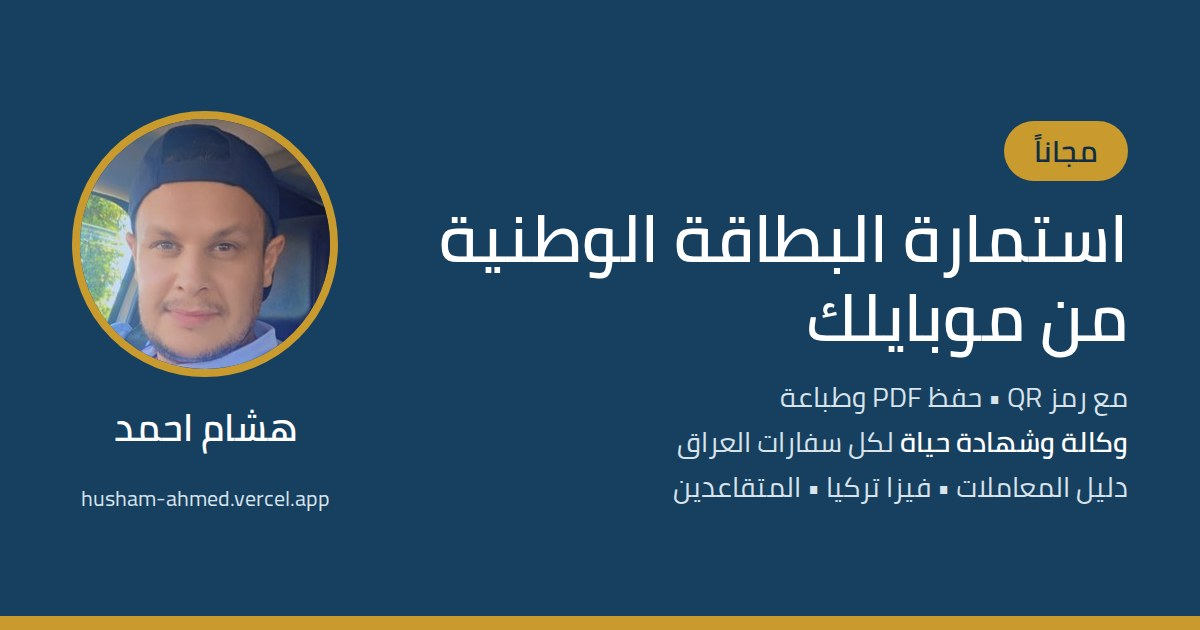
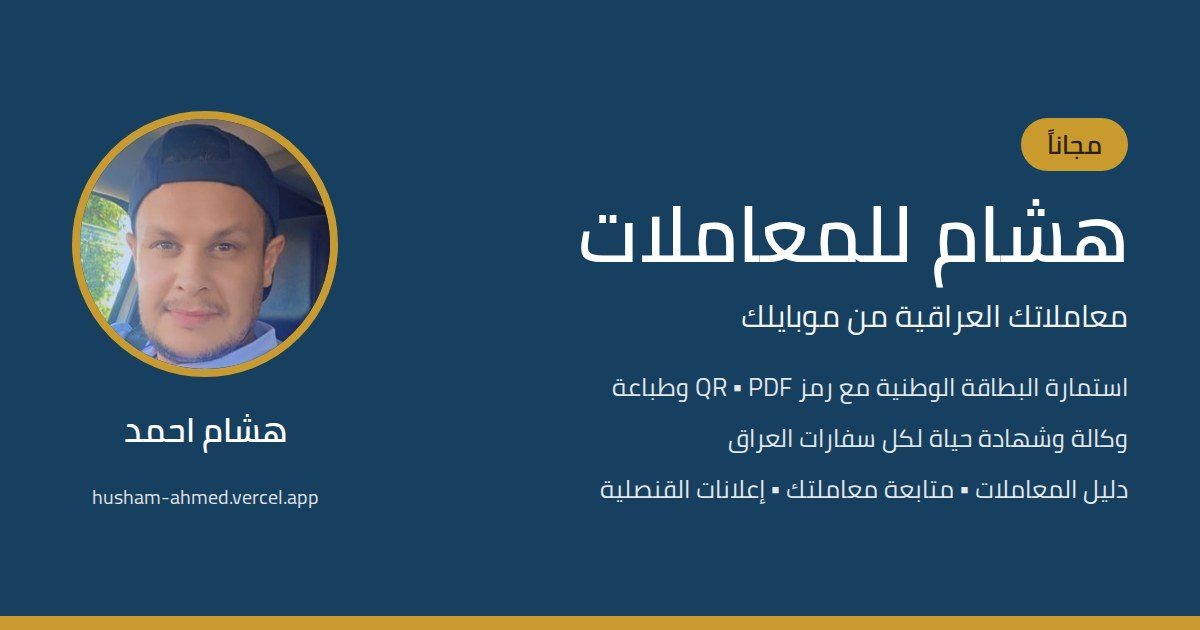
Rename app to هشام للمعاملات
Claude-Session: https://claude.ai/code/session_01QwpJHHxQJLjtmraekUta2C

diff --git a/src/texts.js b/src/texts.js
@@ -364,7 +364,7 @@ export const UI = {
     cSubmit: 'اطلب تقديمها لي',
     saveContact: 'احفظ رقمي',
     shareApp: 'أرسل البرنامج لصديق',
-    shareText: 'برنامج مجاني لتعبئة استمارة البطاقة الوطنية من الموبايل، مع رمز QR وحفظ PDF:',
+    shareText: 'برنامج «هشام للمعاملات» المجاني: استمارة البطاقة الوطنية مع رمز QR، والوكالة وشهادة الحياة، من الموبايل:',
     contactNote: 'حجز المعاملات العراقية، محامون، تصاميم',
     reqTitle: 'طلب حجز أو معاملة',
     reqNote: 'اختر المعاملة واكتب معلوماتك، فتصلني رسالة واتساب مرتبة وأرد عليك بأقرب وقت.',
@@ -400,7 +400,7 @@ export const UI = {
     wipe: 'حذف كل البيانات من هذا الجهاز',
     confirmWipe: 'سيتم حذف كل الاستمارات والمعلومات المحفوظة على هذا الجهاز نهائياً. هل أنت متأكد؟',
     wiped: 'تم حذف كل البيانات',
-    appName: 'استمارة البطاقة الوطنية',
+    appName: 'هشام للمعاملات',
     by: 'إعداد',
     freeBy: 'برنامج مجاني من إعداد',
     pickLang: 'اختر لغة البرنامج',
@@ -446,7 +446,7 @@ export const UI = {
     whatsapp: 'راسلني على واتساب',
     facebook: 'مجموعة فيسبوك',
     tiktok: 'حساب تيك توك',
-    waHello: 'مرحباً هشام، وصلت لك من برنامج استمارة البطاقة الوطنية',
+    waHello: 'مرحباً هشام، وصلت لك من برنامج هشام للمعاملات',
     promos: [
       { key: 'booking', title: 'حجز جميع المعاملات العراقية', text: 'بطاقة وطنية، جواز، وكالة، شهادة حياة وغيرها • لا نستلم أجور مقدماً', msg: 'مرحباً هشام، أحتاج حجز موعد لمعاملة عراقية' },
       { key: 'lawyer', title: 'تحتاج محامي؟', text: 'محامون في جميع أنحاء العراق لكل مغترب • لا نستلم أجور مقدماً', msg: 'مرحباً هشام، أحتاج محامي لمتابعة قضية أو معاملة في العراق' },
@@ -665,7 +665,7 @@ export const UI = {
     cSubmit: 'پێشکەشکردنی بۆم بکە',
     saveContact: 'ژمارەکەم پاشەکەوت بکە',
     shareApp: 'بۆ هاوڕێیەک بنێرە',
-    shareText: 'بەرنامەیەکی خۆڕایی بۆ پڕکردنەوەی فۆرمی کارتی نیشتمانی لە مۆبایلەوە، لەگەڵ QR و PDF:',
+    shareText: 'بەرنامەی خۆڕایی «هیشام بۆ مامەڵەکان»: فۆرمی کارتی نیشتمانی لەگەڵ QR، بریکارنامە و بەڕژیانی، لە مۆبایلەوە:',
     contactNote: 'ژوانی مامەڵە عێراقییەکان، پارێزەر، دیزاین',
     reqTitle: 'داواکاری ژوان یان مامەڵە',
     reqNote: 'مامەڵەکە هەڵبژێرە و زانیارییەکانت بنووسە، نامەیەکی ڕێکخراوم لە واتسئاپ پێدەگات و زوو وەڵامت دەدەمەوە.',
@@ -701,7 +701,7 @@ export const UI = {
     wipe: 'سڕینەوەی هەموو زانیارییەکان لەم ئامێرە',
     confirmWipe: 'هەموو فۆرم و زانیارییە هەڵگیراوەکان لەم ئامێرە بە یەکجاری دەسڕدرێنەوە. دڵنیایت؟',
     wiped: 'هەموو زانیارییەکان سڕانەوە',
-    appName: 'فۆرمی کارتی نیشتمانی',
+    appName: 'هیشام بۆ مامەڵەکان',
     by: 'ئامادەکردنی',
     freeBy: 'بەرنامەیەکی خۆڕایی، ئامادەکردنی',
     pickLang: 'زمانی بەرنامە هەڵبژێرە',
@@ -747,7 +747,7 @@ export const UI = {
     whatsapp: 'لە واتسئاپ نامەم بۆ بنێرە',
     facebook: 'گرووپی فەیسبووک',
     tiktok: 'هەژماری تیکتۆک',
-    waHello: 'سڵاو هیشام، لە بەرنامەی فۆرمی کارتی نیشتمانییەوە هاتووم',
+    waHello: 'سڵاو هیشام، لە بەرنامەی هیشام بۆ مامەڵەکانەوە هاتووم',
     promos: [
       { key: 'booking', title: 'گرتنی ژوان بۆ هەموو مامەڵە عێراقییەکان', text: 'کارتی نیشتمانی، پاسپۆرت، وەکالەت و زیاتر • هیچ کرێیەک پێشوەختە وەرناگرین', msg: 'سڵاو هیشام، پێویستم بە گرتنی ژوانە بۆ مامەڵەیەکی عێراقی' },
       { key: 'lawyer', title: 'پێویستت بە پارێزەرە؟', text: 'پارێزەر لە هەموو ناوچەکانی عێراق • هیچ کرێیەک پێشوەختە وەرناگرین', msg: 'سڵاو هیشام، پێویستم بە پارێزەرە' },

diff --git a/index.html b/index.html
@@ -3,19 +3,19 @@
 <head>
   <meta charset="UTF-8">
   <meta name="viewport" content="width=device-width, initial-scale=1, viewport-fit=cover">
-  <title>استمارة البطاقة الوطنية</title>
-  <meta name="description" content="تعبئة استمارة البطاقة الوطنية العراقية من الموبايل مع رمز QR، وحفظها صورة أو PDF أو طباعتها. برنامج مجاني من إعداد هشام احمد.">
+  <title>هشام للمعاملات</title>
+  <meta name="description" content="هشام للمعاملات: استمارة البطاقة الوطنية العراقية مع رمز QR، والوكالة وشهادة الحياة، ودليل المعاملات من موبايلك. برنامج مجاني من إعداد هشام احمد.">
   <meta name="theme-color" content="#173F5F">
   <meta property="og:type" content="website">
   <meta property="og:site_name" content="هشام احمد">
   <meta property="og:locale" content="ar_IQ">
   <meta property="og:url" content="https://husham-ahmed.vercel.app/">
-  <meta property="og:title" content="استمارة البطاقة الوطنية من موبايلك – مجاناً">
+  <meta property="og:title" content="هشام للمعاملات – معاملاتك العراقية من موبايلك مجاناً">
   <meta property="og:description" content="استمارة البطاقة الوطنية مع رمز QR، والوكالة وشهادة الحياة لكل سفارات العراق، ودليل المعاملات خطوة بخطوة. برنامج مجاني من إعداد هشام احمد.">
   <meta property="og:image" content="https://husham-ahmed.vercel.app/img/og.jpg">
   <meta property="og:image:width" content="1200">
   <meta property="og:image:height" content="630">
-  <meta property="og:image:alt" content="استمارة البطاقة الوطنية من موبايلك – هشام احمد">
+  <meta property="og:image:alt" content="هشام للمعاملات – هشام احمد">
   <meta name="twitter:card" content="summary_large_image">
   <link rel="canonical" href="https://husham-ahmed.vercel.app/">
   <link rel="manifest" href="/manifest.webmanifest">
@@ -23,7 +23,7 @@
   <link rel="apple-touch-icon" href="/icons/apple-touch-icon.png">
   <meta name="apple-mobile-web-app-capable" content="yes">
   <meta name="mobile-web-app-capable" content="yes">
-  <meta name="apple-mobile-web-app-title" content="البطاقة الوطنية">
+  <meta name="apple-mobile-web-app-title" content="هشام للمعاملات">
   <link rel="preload" href="/fonts/cairo-regular.woff2" as="font" type="font/woff2" crossorigin>
   <link rel="preload" href="/fonts/cairo-semibold.woff2" as="font" type="font/woff2" crossorigin>
   <link rel="stylesheet" href="/app.css">

diff --git a/privacy.html b/privacy.html
@@ -3,8 +3,8 @@
 <head>
   <meta charset="UTF-8">
   <meta name="viewport" content="width=device-width, initial-scale=1">
-  <title>سياسة الخصوصية – استمارة البطاقة الوطنية</title>
-  <meta name="description" content="سياسة الخصوصية لتطبيق استمارة البطاقة الوطنية من إعداد هشام احمد.">
+  <title>سياسة الخصوصية – هشام للمعاملات</title>
+  <meta name="description" content="سياسة الخصوصية لتطبيق «هشام للمعاملات» من إعداد هشام احمد.">
   <meta name="theme-color" content="#173F5F">
   <link rel="canonical" href="https://husham-ahmed.vercel.app/privacy.html">
   <link rel="icon" href="/icons/icon-192.png" type="image/png">
@@ -15,7 +15,7 @@
     <p class="back"><a href="/">← الرجوع للتطبيق</a></p>
 
     <h1>سياسة الخصوصية</h1>
-    <p class="meta">تطبيق «استمارة البطاقة الوطنية» · آخر تحديث: 3 تشرين الأول 2026</p>
+    <p class="meta">تطبيق «هشام للمعاملات» · آخر تحديث: 12 تشرين الأول 2026</p>
 
     <div class="notice">
       هذا التطبيق مبادرة شخصية مجانية من هشام احمد، وهو <b>غير تابع للحكومة العراقية</b> ولا لأي سفارة أو قنصلية أو دائرة رسمية.
@@ -60,7 +60,7 @@
 
     <section lang="en" dir="ltr">
       <h1>Privacy Policy</h1>
-      <p class="meta">"National ID Card Form" app · Last updated: 3 October 2026</p>
+      <p class="meta">"Husham for Transactions" (هشام للمعاملات) app · Last updated: 12 October 2026</p>
 
       <div class="notice">
         This app is a free personal project by Husham Ahmed. It is <b>not affiliated with the Government of Iraq</b> or with any Iraqi embassy, consulate or official office.

diff --git a/src/main.js b/src/main.js
@@ -257,7 +257,7 @@ function openRequest(preselect, prefillNote) {
       `• عدد الأشخاص: ${people}`,
       `• أفضل وقت للتواصل: ${UI.Ara.reqTimes[when]}`,
       notes.value.trim() ? `• ملاحظات: ${notes.value.trim()}` : null,
-      '(مرسل من برنامج استمارة البطاقة الوطنية)',
+      '(مرسل من برنامج هشام للمعاملات)',
     ].filter(Boolean);
     try { localStorage.setItem(REQ_KEY, JSON.stringify({ name: name.value.trim(), city: city.value.trim() })); } catch (e) { /* ignore */ }
     count('booking_request', { services: picked.map((sv) => sv.id).join(','), people });

diff --git a/sw.js b/sw.js
@@ -1,5 +1,5 @@
 // Offline support. Change VERSION whenever any file changes.
-const VERSION = 'bitaqa-73';
+const VERSION = 'bitaqa-74';
 const FILES = [
   '/', '/index.html', '/app.css', '/manifest.webmanifest',
   '/src/main.js', '/src/va.js', '/src/sheet.js', '/src/schema.js', '/src/texts.js', '/src/lists.js', '/src/qr.js', '/src/pdf.js', '/src/consular.js', '/src/missions.js', '/src/translit.js', '/src/guides.js', '/src/natur.js', '/src/vendor/qrcode.mjs',
